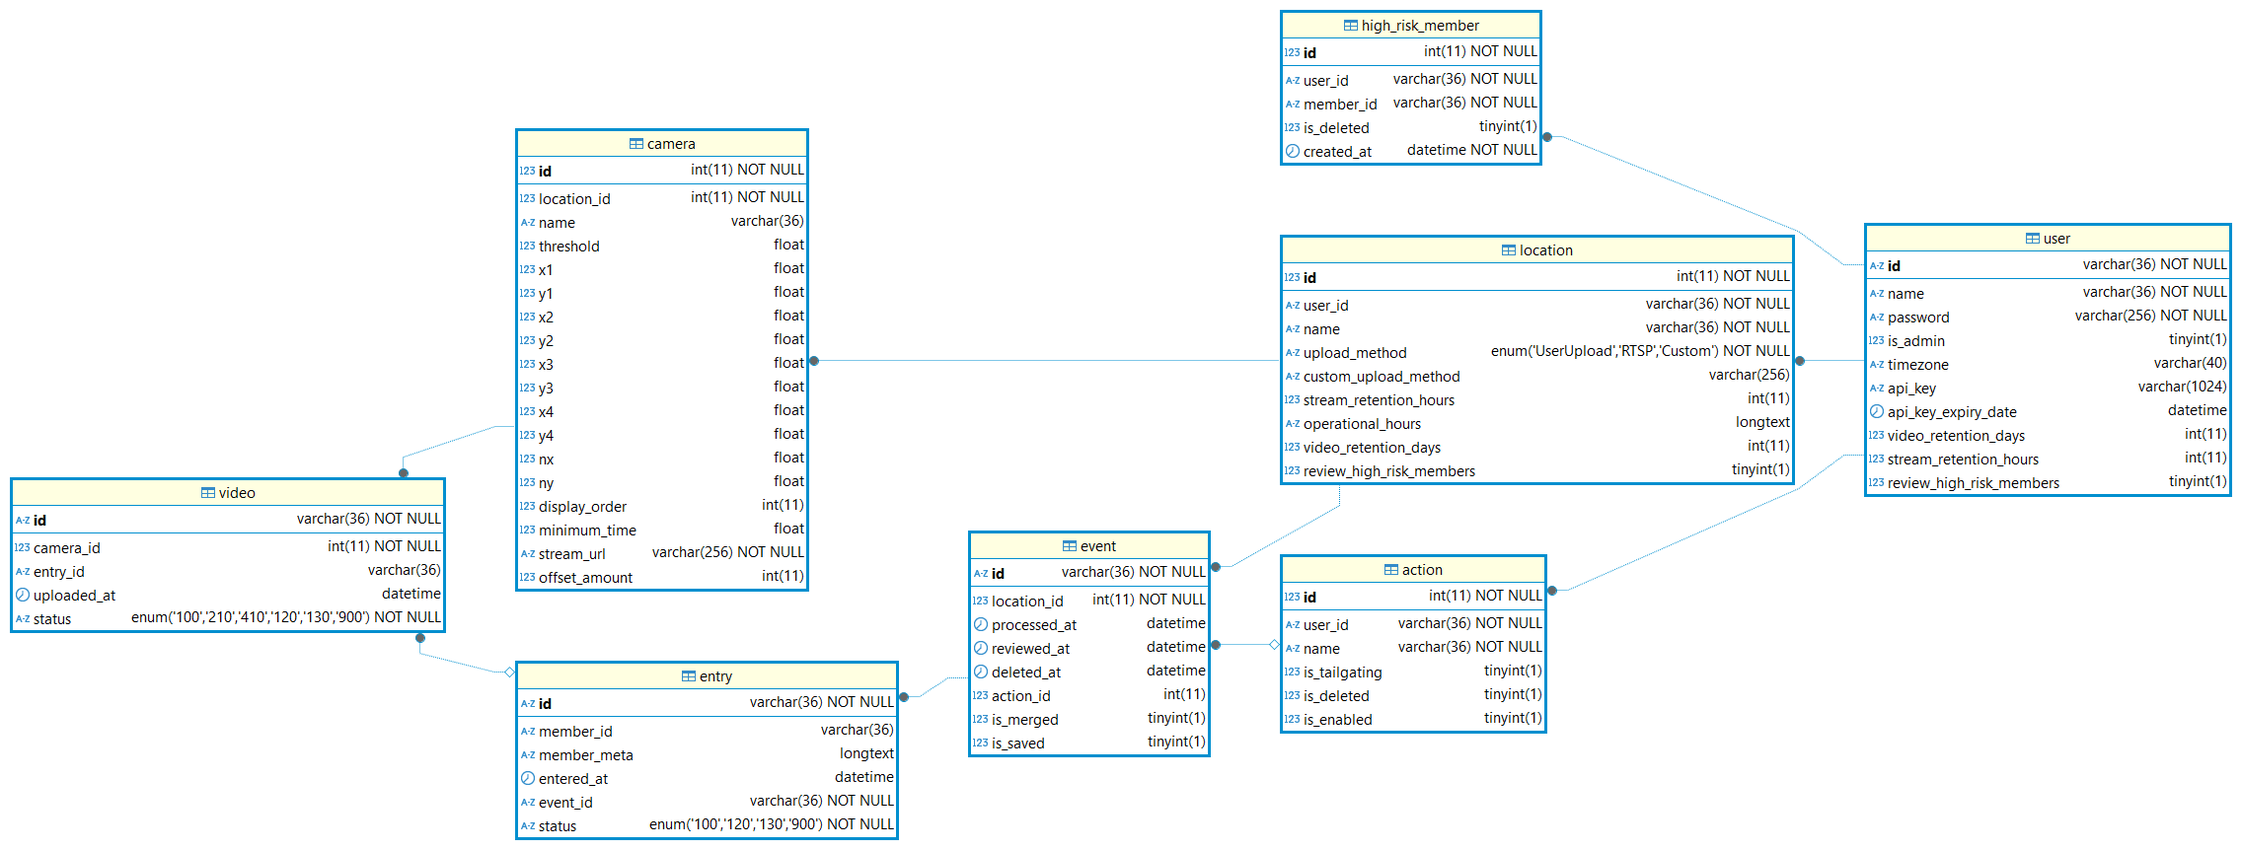
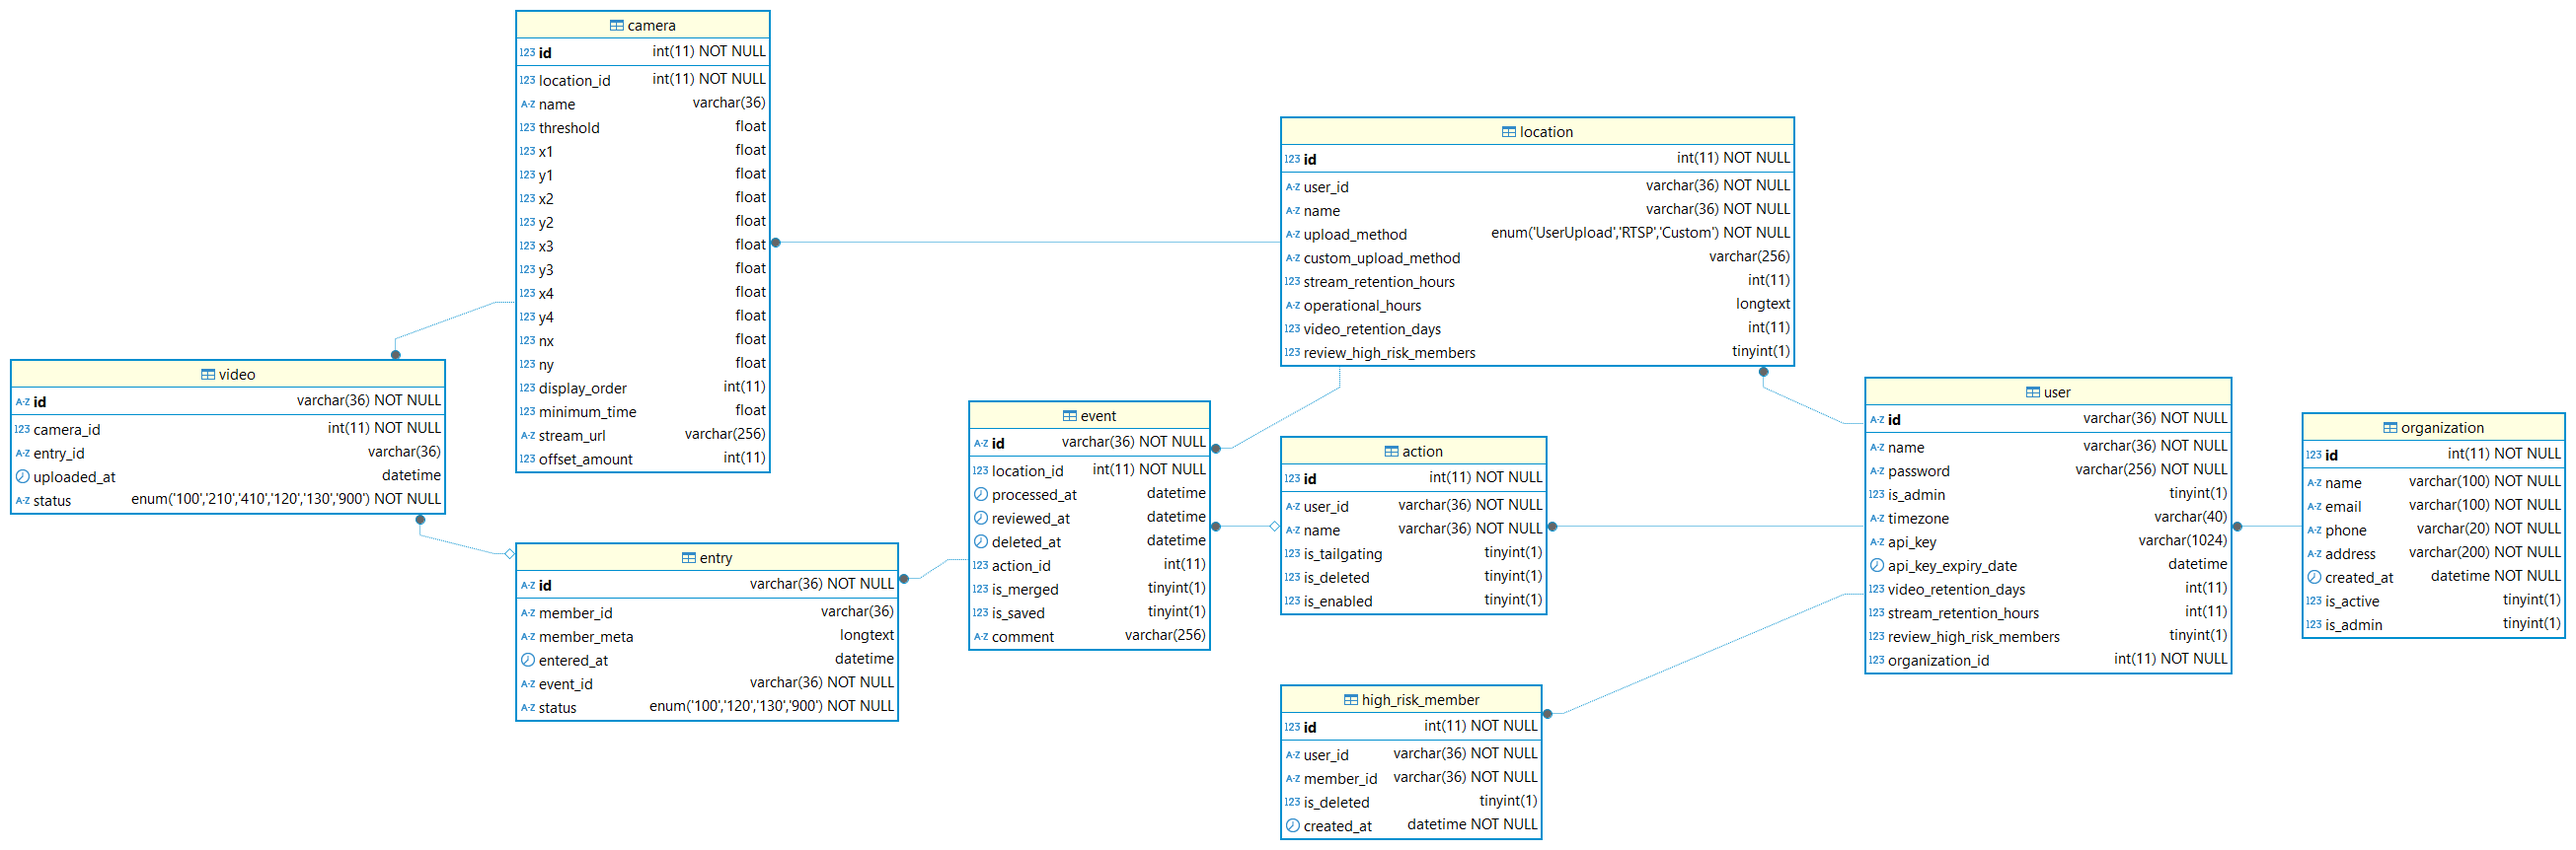
erd static done

Changed region(s): [[0.0, 0.0, 1.0, 0.9954]]

diff --git a/src/components/erd/Entities.js b/src/components/erd/Entities.js
@@ -1,29 +1,45 @@
 export const entities = [
     {
         name: "user",
-        description: "A user of the system, who manages the facilities equipped with IP cameras.",
+        description: <p>A user of the system, who manages the facilities equipped with IP cameras. A user must belong to an organization.</p>,
+        page: null,
         columns: [
-            { name: "id", type: "string", primaryKey: true, description: "Unique identifier of the user." },
+            { name: "id", type: "string", description: "Unique identifier of the user." },
             { name: "name", type: "string", description: "Name of the user." },
             { name: "password", type: "string", description: "Hash of the user's password." },
             { name: "is_admin", type: "bool", description: "Indicates if the user has admin privileges." },
-            { name: "api_key", type: "string", description: "Hashed of the user's API key" },
+            { name: "api_key", type: "string", description: "Hash of the user's API key" },
             { name: "api_key_expiry_date", type: "datetime", description: "Date when the API key expires" },
             { name: "video_retention_days", type: "int", description: "Account-level setting for the number of days to retain video clips." },
             { name: "stream_retention_hours", type: "int", description: "Account-level setting for the number of hours to retain live stream in KVS." },
             { name: "review_high_risk_members", type: "bool", description: "Account-level setting to determine if high-risk members should always be reviewed by agents" },
+            { name: "organization_id", type: "int", description: "The organization to which the user belongs." },
+        ]
+    },
+    {
+        name: "organization",
+        description: <p>An organization that manages multiple users and locations. Billing is done at an organization level.</p>,
+        columns: [
+            { name: "id", type: "int", description: "Unique identifier of the organization." },
+            { name: "name", type: "string", description: "Name of the organization." },
+            { name: "email", type: "string", description: "Email address of the organization." },
+            { name: "phone", type: "string", description: "Phone number of the organization." },
+            { name: "address", type: "string", description: "Address of the organization." },
+            { name: "created_at", type: "datetime", description: "Timestamp when the organization was created." },
+            { name: "is_active", type: "bool", description: "Indicates if the organization is active." },
+            { name: "is_admin", type: "bool", description: "Indicates if the organization has admin privileges." },
         ]
     },
     {
         name: "location",
-        description: "A location managed by a user, equipped with cameras.",
+        description: <p>A location managed by a user, equipped with cameras. A location is typically an entrance, so a facility can have multiple locations.</p>,
         columns: [
-            { name: "id", type: "int", primaryKey: true, description: "Unique identifier of the location." },
-            { name: "user_id", type: "string", foreignKey: "user.id", description: "The user who owns this location." },
+            { name: "id", type: "int", description: "Unique identifier of the location." },
+            { name: "user_id", type: "string", description: "The user who owns this location." },
             { name: "name", type: "string", description: "Name of the location." },
-            { name: "upload_method", type: "enum", description: "Method of uploading video streams." },
+            { name: "upload_method", type: "enum", description: "Method of uploading video streams. Enum of ( UserUpload, RTSP, Custom )" },
             { name: "custom_upload_method", type: "string", description: "Custom upload method if applicable." },
-            { name: "operational_hours", type: "json", description: "Operational hours of the location." },
+            { name: "operational_hours", type: "json", description: "Operational schedule of the TAILDET-AI for the location." },
             { name: "video_retention_days", type: "int", description: "Number of days to retain video clips." },
             { name: "stream_retention_hours", type: "int", description: "Number of hours to retain live streams." },
             { name: "review_high_risk_members", type: "bool", description: "Whether high-risk members should always be reviewed." },
@@ -31,80 +47,95 @@ export const entities = [
     },
     {
         name: "camera",
-        description: "A camera installed at a location.",
+        description: <p>A camera installed at a location.</p>,
         columns: [
-            { name: "id", type: "int", primaryKey: true, description: "Unique identifier of the camera." },
-            { name: "location_id", type: "int", foreignKey: "location.id", description: "The location where the camera is installed." },
+            { name: "id", type: "int", description: "Unique identifier of the camera." },
+            { name: "location_id", type: "int", description: "The location where the camera is installed." },
+            { name: "display_order", type: "int", description: "Display order of the camera." },
             { name: "name", type: "string", description: "Name of the camera." },
-            { name: "stream_url", type: "string", description: "URL of the camera's video stream." },
+            { name: "stream_url", type: "string", description: "URL of the camera's RTSP stream." },
             { name: "threshold", type: "float", description: "Threshold for detection." },
             { name: "minimum_time", type: "float", description: "Minimum time for detection." },
-            { name: "x1", type: "float", description: "Coordinate x1 for the camera's field of view." },
-            { name: "y1", type: "float", description: "Coordinate y1 for the camera's field of view." },
-            { name: "x2", type: "float", description: "Coordinate x2 for the camera's field of view." },
-            { name: "y2", type: "float", description: "Coordinate y2 for the camera's field of view." },
-            { name: "x3", type: "float", description: "Coordinate x3 for the camera's field of view." },
-            { name: "y3", type: "float", description: "Coordinate y3 for the camera's field of view." },
-            { name: "x4", type: "float", description: "Coordinate x4 for the camera's field of view." },
-            { name: "y4", type: "float", description: "Coordinate y4 for the camera's field of view." },
+            { name: "offset_amount", type: "int", description: "Offset amount in seconds when creating a video clip from KVS." },
+            { name: "x1", type: "float", description: "x coordinate of the 1st point of the entrance" },
+            { name: "y1", type: "float", description: "y coordinate of the 1st point of the entrance" },
+            { name: "x2", type: "float", description: "x coordinate of the 2nd point of the entrance" },
+            { name: "y2", type: "float", description: "y coordinate of the 2nd point of the entrance" },
+            { name: "x3", type: "float", description: "x coordinate of the 3rd point of the entrance" },
+            { name: "y3", type: "float", description: "y coordinate of the 3rd point of the entrance" },
+            { name: "x4", type: "float", description: "x coordinate of the 4th point of the entrance" },
+            { name: "y4", type: "float", description: "y coordinate of the 4th point of the entrance" },
+            { name: "nx", type: "float", description: "x component of the normalized vector that is normal to the entrance" },
+            { name: "ny", type: "float", description: "y component of the normalized vector that is normal to the entrance" },
         ]
     },
     {
         name: "action",
-        description: "An action performed by a user.",
+        description: <p>An action performed by a user on an event.</p>,
         columns: [
             { name: "id", type: "int", primaryKey: true, description: "Unique identifier of the action." },
             { name: "user_id", type: "string", foreignKey: "user.id", description: "The user who performed the action." },
             { name: "name", type: "string", description: "Name of the action." },
-            { name: "is_tailgating", type: "bool", description: "Indicates if the action is related to tailgating." },
+            { name: "is_tailgating", type: "bool", description: "Indicates if the action is done on a tailgating event." },
             { name: "is_enabled", type: "bool", description: "Whether the action is enabled." },
             { name: "is_deleted", type: "bool", description: "Whether the action is deleted." },
         ]
     },
     {
         name: "high_risk_member",
-        description: "A member flagged as high risk.",
+        description: <p>A member flagged as high risk.</p>,
         columns: [
-            { name: "id", type: "int", primaryKey: true, description: "Unique identifier of the high-risk member." },
-            { name: "user_id", type: "string", foreignKey: "user.id", description: "The user who flagged the member." },
-            { name: "member_id", type: "string", description: "Identifier of the high-risk member." },
+            { name: "id", type: "int", description: "Unique identifier of the high-risk member." },
+            { name: "user_id", type: "string", description: "The user who flagged the member." },
+            { name: "member_id", type: "string", description: "User-side identifier of the high-risk member." },
             { name: "is_deleted", type: "bool", description: "Whether the member is deleted." },
             { name: "created_at", type: "datetime", description: "Timestamp when the member was flagged." },
         ]
     },
     {
         name: "event",
-        description: "An event recorded in the system.",
+        description: <>
+                        <p>An event recorded in the system. Review is done on a per-event basis.</p>
+                        <br />
+                        <p>It consists of a collection of entries. When multiple people scan their cards within certain amount of time, they will be considered as one event, and each scan will create an entry.</p>
+                        <br />
+                        <p> An event will be marked as tailgating if the number of people detected exceeds the number of people scanned in an event.</p>
+                    </>,
         columns: [
-            { name: "id", type: "string", primaryKey: true, description: "Unique identifier of the event." },
-            { name: "location_id", type: "int", foreignKey: "location.id", description: "The location where the event occurred." },
-            { name: "processed_at", type: "datetime", description: "Timestamp when the event was processed." },
-            { name: "reviewed_at", type: "datetime", description: "Timestamp when the event was reviewed." },
+            { name: "id", type: "string", description: "Unique identifier of the event." },
+            { name: "location_id", type: "int", description: "The location where the event occurred." },
+            { name: "processed_at", type: "datetime", description: "Timestamp when the event was processed by the AI engine." },
+            { name: "reviewed_at", type: "datetime", description: "Timestamp when the event was reviewed by an agent." },
             { name: "deleted_at", type: "datetime", description: "Timestamp when the event was deleted." },
             { name: "is_merged", type: "bool", description: "Whether the event is merged." },
-            { name: "action_id", type: "int", foreignKey: "action.id", description: "The action associated with the event." },
+            { name: "action_id", type: "int", description: "The action associated with the event." },
             { name: "is_saved", type: "bool", description: "Whether the event is saved." },
+            { name: "coment", type: "string", description: "Comment associated with the event." },
         ]
     },
     {
         name: "entry",
-        description: "An entry associated with an event.",
+        description: <>
+                        <p>An entry associated with an event. Scanning a card creates an entry by calling POST /entry</p>
+                        <br />
+                        <p>An entry consists of a collection of videos as a location can have multiple cameras. Each camera creates a video on member entry.</p>
+                    </>,
         columns: [
-            { name: "id", type: "string", primaryKey: true, description: "Unique identifier of the entry." },
-            { name: "event_id", type: "string", foreignKey: "event.id", description: "The event associated with the entry." },
-            { name: "member_id", type: "string", description: "Identifier of the member involved in the entry." },
-            { name: "member_meta", type: "json", description: "Metadata about the member." },
+            { name: "id", type: "string", description: "Unique identifier of the entry." },
+            { name: "event_id", type: "string", description: "The event associated with the entry." },
+            { name: "member_id", type: "string", description: "User-side identifier of the member involved in the entry." },
+            { name: "member_meta", type: "json", description: "Metadata about the member provided by the user." },
             { name: "entered_at", type: "datetime", description: "Timestamp when the entry occurred." },
             { name: "status", type: "enum", description: "Status of the entry." },
         ]
     },
     {
         name: "video",
-        description: "A video associated with an entry.",
+        description: <p>A video associated with an entry and a camera.</p>,
         columns: [
-            { name: "id", type: "string", primaryKey: true, description: "Unique identifier of the video." },
-            { name: "camera_id", type: "int", foreignKey: "camera.id", description: "The camera that recorded the video." },
-            { name: "entry_id", type: "string", foreignKey: "entry.id", description: "The entry associated with the video." },
+            { name: "id", type: "string", description: "Unique identifier of the video." },
+            { name: "camera_id", type: "int", description: "The camera that recorded the video." },
+            { name: "entry_id", type: "string", description: "The entry associated with the video." },
             { name: "status", type: "enum", description: "Status of the video." },
             { name: "uploaded_at", type: "datetime", description: "Timestamp when the video was uploaded." },
         ]

diff --git a/src/components/erd/ERD.js b/src/components/erd/ERD.js
@@ -2,7 +2,6 @@ import {
     Card,
     CardContent,
     CardDescription,
-    CardFooter,
     CardHeader,
     CardTitle,
   } from "@/components/ui/card"
@@ -49,11 +48,13 @@ function Entity({ name, description, columns }) {
                 <CardDescription>{description}</CardDescription>
             </CardHeader>
             <CardContent>
-                {columns.map((column) => (
-                    <div key={column.name}>
-                        <strong>{column.name}</strong> ({column.type}) - {column.description}
-                    </div>
-                ))}
+                <div className="grid grid-cols-1 gap-4">
+                    {columns.map((column) => (
+                        <div key={column.name}>
+                            <strong>{column.name}</strong> ({column.type}) - {column.description}
+                        </div>
+                    ))}
+                </div>
             </CardContent>
         </Card>
     )

diff --git a/src/app/erd/page.js b/src/app/erd/page.js
@@ -4,7 +4,7 @@ import ImageMagnifier from "@/components/common/ImageMagnifier";
 export default function ERDPage() {
     return (
         <div className="my-6 flex flex-col items-center justify-center">
-            <ImageMagnifier src="/erd.png" />
+            <ImageMagnifier src="/erd.png" magnifierSize={300} width={90}/>
             <ERD/>
         </div>
     )
